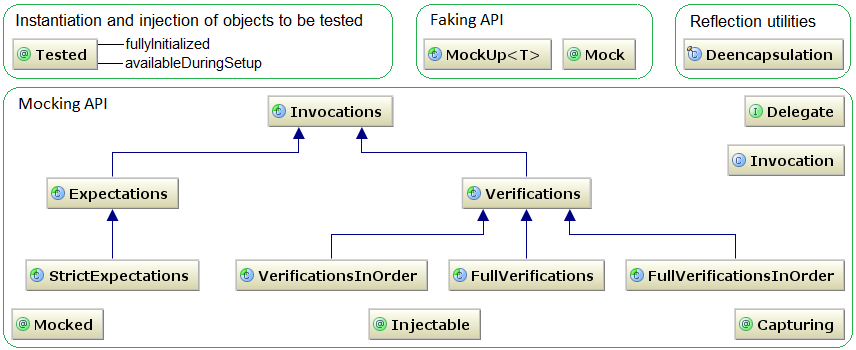
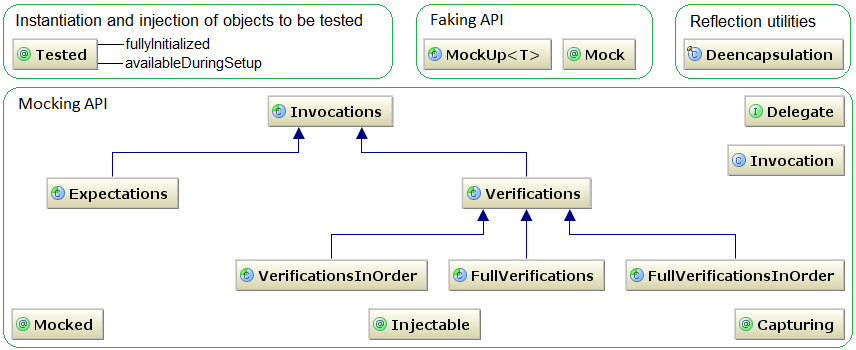
Removed StrictExpectations class from API figures.

Changed region(s): [[0.0304, 0.7143, 0.243, 0.8286], [0.1215, 0.6, 0.1519, 0.6286]]

diff --git a/api1x/overview.html b/api1x/overview.html
@@ -12,24 +12,23 @@
 </p>
 <div style="text-align: center" title="Click on the types or titles to open associated documentation">
    <map name="figure1">
-      <area shape="rect" coords="14,12,362,28" href="../tutorial/EnterpriseApplications.html" target="tested">
-      <area shape="rect" coords="11,37,98,71" href="mockit/Tested.html">
-      <area shape="rect" coords="17,96,106,112" href="../tutorial/Mocking.html" target="mocking">
-      <area shape="rect" coords="45,176,179,209" href="mockit/Expectations.html">
-      <area shape="rect" coords="24,258,199,291" href="mockit/StrictExpectations.html">
-      <area shape="rect" coords="460,176,592,209" href="mockit/Verifications.html">
-      <area shape="rect" coords="234,258,428,291" href="mockit/VerificationsInOrder.html">
-      <area shape="rect" coords="447,258,605,291" href="mockit/FullVerifications.html">
-      <area shape="rect" coords="624,258,845,291" href="mockit/FullVerificationsInOrder.html">
-      <area shape="rect" coords="743,94,845,127" href="mockit/Delegate.html">
-      <area shape="rect" coords="726,143,845,176" href="mockit/Invocation.html">
-      <area shape="rect" coords="369,308,480,340" href="mockit/Injectable.html">
-      <area shape="rect" coords="11,308,103,340" href="mockit/Mocked.html">
-      <area shape="rect" coords="733,308,845,340" href="mockit/Capturing.html">
-      <area shape="rect" coords="428,12,503,28" href="../tutorial/Faking.html" target="faking">
-      <area shape="rect" coords="422,37,552,71" href="mockit/MockUp.html">
-      <area shape="rect" coords="561,37,636,71" href="mockit/Mock.html">
-      <area shape="rect" coords="682,37,844,71" href="mockit/Deencapsulation.html">
+      <area coords=" 14, 12,362, 28" href="../tutorial/EnterpriseApplications.html" target="tested">
+      <area coords=" 11, 37, 98, 71" href="mockit/Tested.html">
+      <area coords=" 17, 96,106,112" href="../tutorial/Mocking.html" target="mocking">
+      <area coords=" 45,176,179,209" href="mockit/Expectations.html">
+      <area coords="460,176,592,209" href="mockit/Verifications.html">
+      <area coords="234,258,428,291" href="mockit/VerificationsInOrder.html">
+      <area coords="447,258,605,291" href="mockit/FullVerifications.html">
+      <area coords="624,258,845,291" href="mockit/FullVerificationsInOrder.html">
+      <area coords="743, 94,845,127" href="mockit/Delegate.html">
+      <area coords="726,143,845,176" href="mockit/Invocation.html">
+      <area coords="369,308,480,340" href="mockit/Injectable.html">
+      <area coords=" 11,308,103,340" href="mockit/Mocked.html">
+      <area coords="733,308,845,340" href="mockit/Capturing.html">
+      <area coords="428, 12,503, 28" href="../tutorial/Faking.html" target="faking">
+      <area coords="422, 37,552, 71" href="mockit/MockUp.html">
+      <area coords="561, 37,636, 71" href="mockit/Mock.html">
+      <area coords="682, 37,844, 71" href="mockit/Deencapsulation.html">
    </map>
    <img src="../toolkit.png" style="border: none;" usemap="overview.html#figure1">
    <br>
